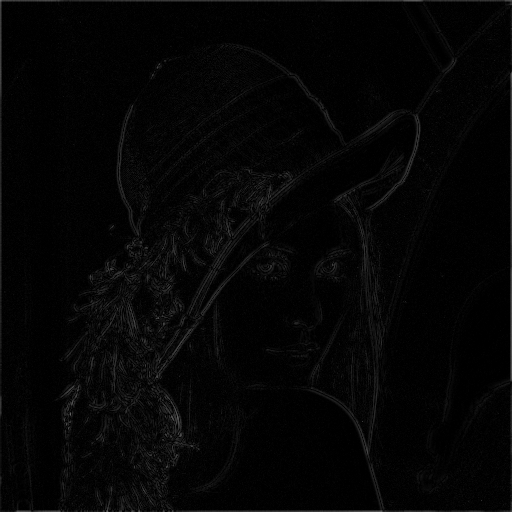
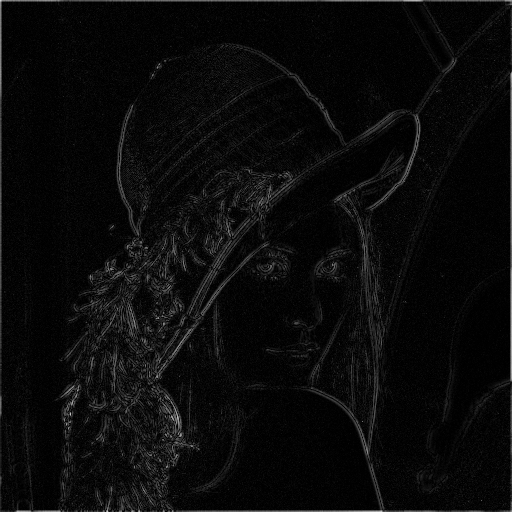
Brighter edges.

diff --git a/README.md b/README.md
@@ -219,16 +219,16 @@ You can _dilate_ the image by replacing the `min` in the above code with `max`.
 Chaining together results of pixslam programs can yield some nice results. Subtracting a blurred version of an image from the original leaves bland areas close to zero and edge regions positive or negative. So taking the absolute difference of an image with a blurred version of the original gives a simple edge detector!
 
 ```
-; absdiff.psm
-; Absolute difference.
-((A B) (max (- A B) (- B A)))
+; double_absdiff.psm
+; Double absolute difference.
+((A B) (* 2 (max (- A B) (- B A))))
 ```
 
 Now run this on a box blurred Lena and the original image and you get some edges.
 
 ```
 # Edge detection on the Lenna image.
-../pixslam --logCommand absdiff.psm ../example_data/lena.png box_5x5_out_1.png lena_edge.png
+../pixslam --logCommand double_absdiff.psm ../example_data/lena.png box_5x5_out_1.png lena_edge.png
 
 ```
 ![Simple edge detection](raw/master/readme_images/lena_edge.png "Simple edge detection")
